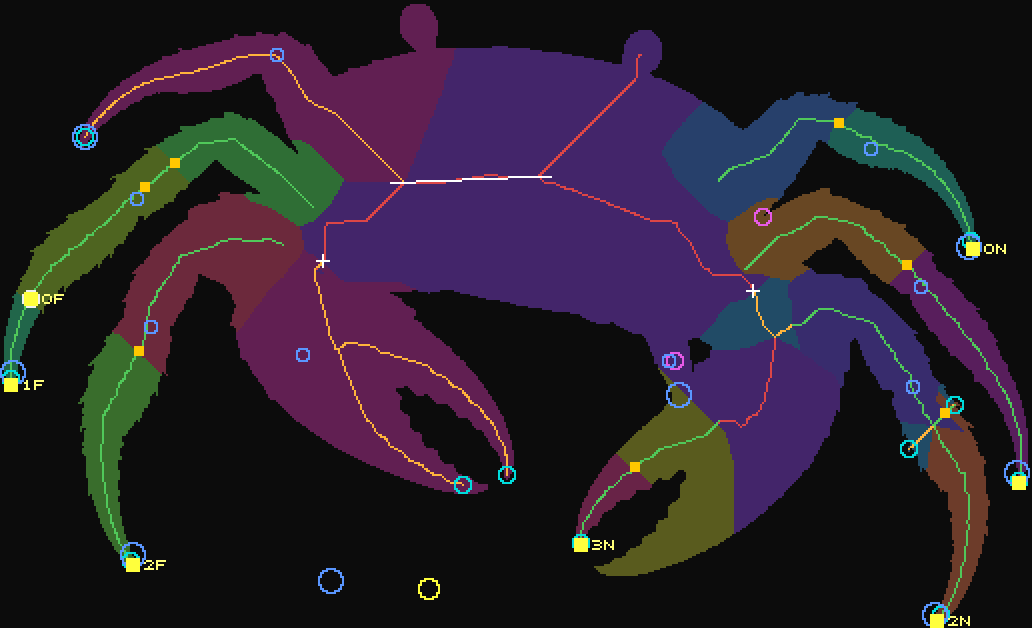
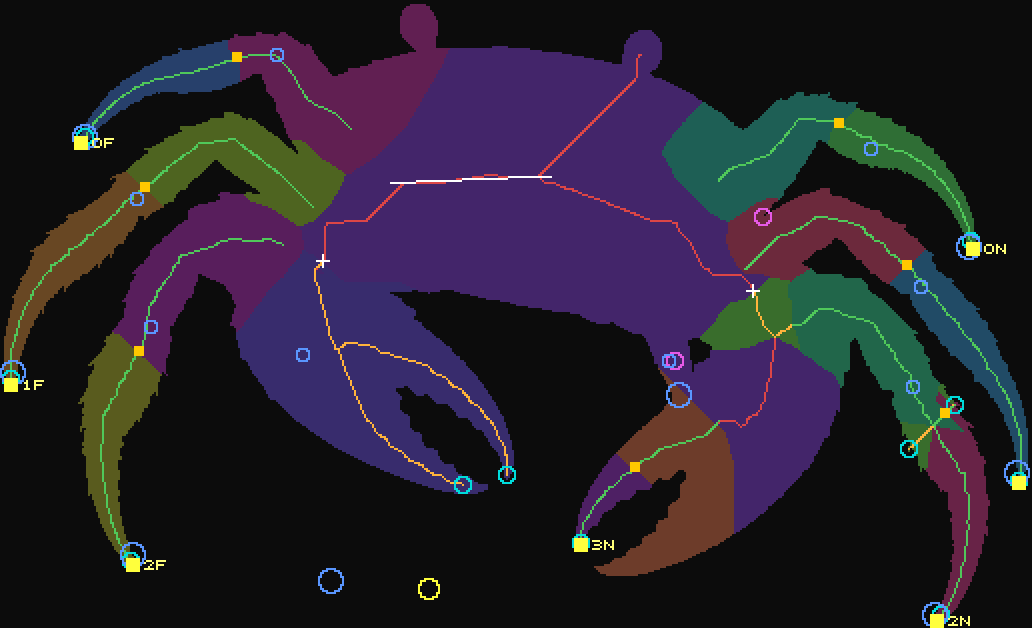
feat(anatomy-verify): touching tips at an endpoint's separation point dropped (touchNotSep) and finger-length bound 0.7 as defaults — named 29/39; loop thin-section test measured and rejected; IC-4 strict 2/6·6/6·7/10·9/10 recorded; sheet regenerated — README slice 22, ROADMAP
Claude-Session: https://claude.ai/code/session_018oxuMaBt9tmZZ1dvYosfuz

diff --git a/ROADMAP.md b/ROADMAP.md
@@ -152,7 +152,8 @@ branch push of both lanes Nick then authorized is done (see Lane state), so orig
 
 
 ### What Claude owes next
--14. **Sheet + contact refinement (2026-09-21, this commit):** `sheet.mjs` renders the compiler's reading per subject for Nick's eye — `audits/INTAKE_COMPILER_20260921/sheet-01/` (six PNGs + summary); contact-terminal refinement through the contract (Civet paws 18–31 px, named 27/39); appendage-slot candidates count as used (Civet ADMIT); IC-4 now positives 4/6, wrong-template 6/6, erased 7/10, duplicated 8/10. Economics grid and `thickNeedsFork` measured and rejected (README slice 21 addenda).
+-15. **Slice 22 (2026-09-21, this commit):** `touchNotSep` (a touching tip at an endpoint chain's separation point is a junction, not a tip) + `thickMaxLen` 0.7 are the defaults: named **29/39** (from 27/39), positions 30/39; IC-4 strict positives 2/6 · wrong-template 6/6 · erased 7/10 · duplicated 9/10 (lenient 3/6 · 6/10 · 7/10). Naming and verdict now pull against each other on TRUE loop-filled rear legs (crab 68 px, mud 10 px); next lever = the loop candidate's own thin-cross-section test. Sheet regenerated.
+-14. **Sheet + contact refinement (2026-09-21, commit `9145ead1`):** `sheet.mjs` renders the compiler's reading per subject for Nick's eye — `audits/INTAKE_COMPILER_20260921/sheet-01/` (six PNGs + summary); contact-terminal refinement through the contract (Civet paws 18–31 px, named 27/39); appendage-slot candidates count as used (Civet ADMIT); IC-4 now positives 4/6, wrong-template 6/6, erased 7/10, duplicated 8/10. Economics grid and `thickNeedsFork` measured and rejected (README slice 21 addenda).
 -13. **Slice 21 (2026-09-21, commit `e071017c`):** interior-edge stage built as an off-by-default option and measured; slice 19's "no candidate" finding CORRECTED (the folded legs are in the pool, misclassified/weak); strict evidence verdict in `ic4.mjs` (erased 7/10, dup 8/10 refused, positives 3/6); second wrist cut. Bottleneck stated precisely in README slice 21: unused/empty-slot economics + terminal-thickness consistency let two false far-side candidates outbid an empty slot. Defaults unchanged (30/35, 24/34).
 -12. **Slice 20 (2026-09-21, commit `bdddefdb`):** Codex answered the hidden-placement question (`openai/mac` `78dc7dc3`, read-only note): geometric rule, `hidden-anatomy.mjs#inferHiddenLandmarks`, 0 px from the hand roots. Adopted in `assign.mjs` generalized to stations (no leg names); contract axis mapped per view (front → spine top normal). Hidden feet from the compiler's own roots: crab 108, freshwater 112, mud 391, coconut 709/460 (misnamed pair 2). Claw wrist probe: the wrist is on the body ridge between the claw root node and the spine — next P3 step is a body-edge shortest path per claw with the DT minimum as the wrist (unblocks P7 body IoU). Codex's `hidden-anatomy.mjs` is NOT merged here yet; the compiler will call it at the next local merge instead of its own copy.
 -11. **Slice 19 rounds (2026-09-21, commits `16e736a4`, `62f98e48`, this one):** naming-bottleneck rules measured and rejected with numbers (touch junction body-distance bound, loops off, even-spacing prior, gap-consistency prior, P7 leg-seed offset). **Design finding for Nick:** the two legs no rule can name (freshwater/crab `leg0Far`, folded flat over the carapace) have no candidate at all — a limb painted over the body is inside the silhouette and invisible to the alpha-only ridge graph; an interior-edge probe shows its contour is present but texture-noisy. The compiler needs an interior-edge stage (design item) — until then a folded leg is an empty slot and an erased-leg mutant on it is undetectable by construction. Options retained off by default; defaults unchanged (crabs 30/35 positions, 24/34 named).

diff --git a/port/v2/tools/anatomy-verify/README.md b/port/v2/tools/anatomy-verify/README.md
@@ -439,3 +439,29 @@ slots as yellow squares with F/N side + station letters, knees/ankles, inferred 
 spine axis, and the record's landmarks as blue rings for comparison only) plus `sheet-summary.json` with the legend
 and per-subject scores. First sheet: `audits/INTAKE_COMPILER_20260921/sheet-01/` (six subjects at the current
 defaults: crabs 30/35 positions, 24/34 named; Civet 3/5 named, tail + four paws in slot).
+
+## Slice 22 — separation-point touching tips + finger-length bound as defaults, 2026-09-21
+The freshwater far side's false touching tip (74,625, 88 px) is exactly the SEPARATION point of the true leg1Far
+chain — the junction where that leg parts from its neighbour, not a tip resting on the body. `touchNotSep` drops a
+touching tip within 0.1 R of any endpoint candidate's separation point (narrower than the "interior" test that
+deleted the vent crab's true tips): vent 4/8 → 5/7, duplicated mutants REFUSE 10/10, erased 9/10 — but freshwater
+5/7 → 3/6 because its true rear leg (136,439) is still a "claw finger" and the empty slot slides. Both together —
+`touchNotSep` + `thickMaxLen` 0.7 (a lone thick terminal is a finger only when finger-short) — give the best
+naming so far: **29/39** (coconut 4/7, crab 5/6, freshwater 6/7, mud 6/7, vent 5/7, Civet 3/5); positions 30/39
+unchanged; hidden sets exact 3/6. Now the defaults. IC-4 with them: strict verdict positives 2/6 (freshwater,
+Civet; the crab and mud crab carry a TRUE loop-filled `leg0Far` at 68/10 px that strict evidence refuses; the
+coconut fills its declared-hidden `leg3Near` with a thick terminal now allowed as a leg; the vent leaves `leg3Near`
+empty after the false tip went), wrong-template 6/6, erased 7/10, duplicated 9/10; lenient (`IC4_STRICT=0`):
+positives 3/6, erased 6/10, duplicated 7/10. Sheet regenerated at the new defaults (`sheet-01`).
+Where it stands: naming and the verdict now pull against each other on the loop-filled rear legs — a true loop
+(crab 68 px, mud 10 px) is indistinguishable from the twelve false loops by any feature measured so far. The next
+lever is the loop candidate itself: replace "far point of a thin edge between two near-body nodes" with the same
+thin-terminal test the endpoints pass (a loop limb has a thin cross-section over ≥ 0.3 × leg length of its edge),
+so a true rear leg becomes strong evidence and the false loops (short thick bridges) drop.
+Addendum — loop thin-cross-section test (`loopThinFrac`: ≥ f of the loop edge's pixels leg-thin): 0.3 no change,
+0.5/0.7 → 25/38 (drops the crab's TRUE loop). Measured why: the three true loops (crab 68 px, freshwater 38, vent
+55) have ridge thickness 21–24 — a leg folded against the carapace shares its outline, so its ridge reads as thick —
+and the ten false loops span 11–32; length 42–74 vs 26–69. No feature measured on this set separates them.
+Rejected; kept as an option at 0. **Conclusion of the tuning rounds:** on six subjects the compiler is at the
+limit of per-rule tuning (29/39 named, positions 30/39); the next real step is more subjects through the same
+code — the second painted quadruped (PROGRAM §6's one exception) — so a rule is judged on two families, not one.
